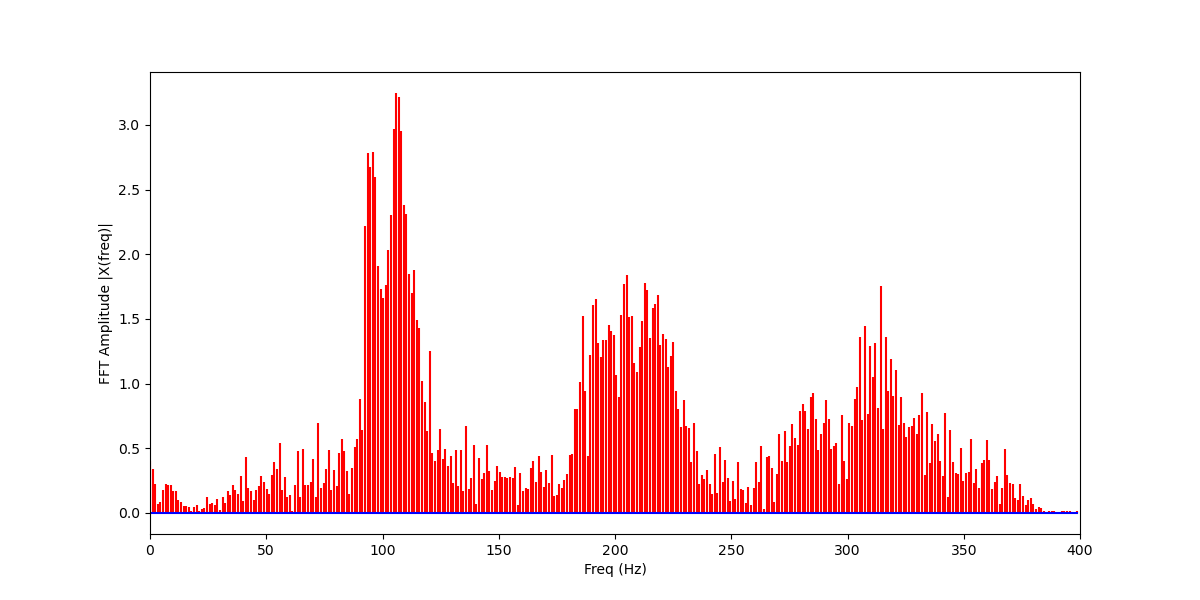
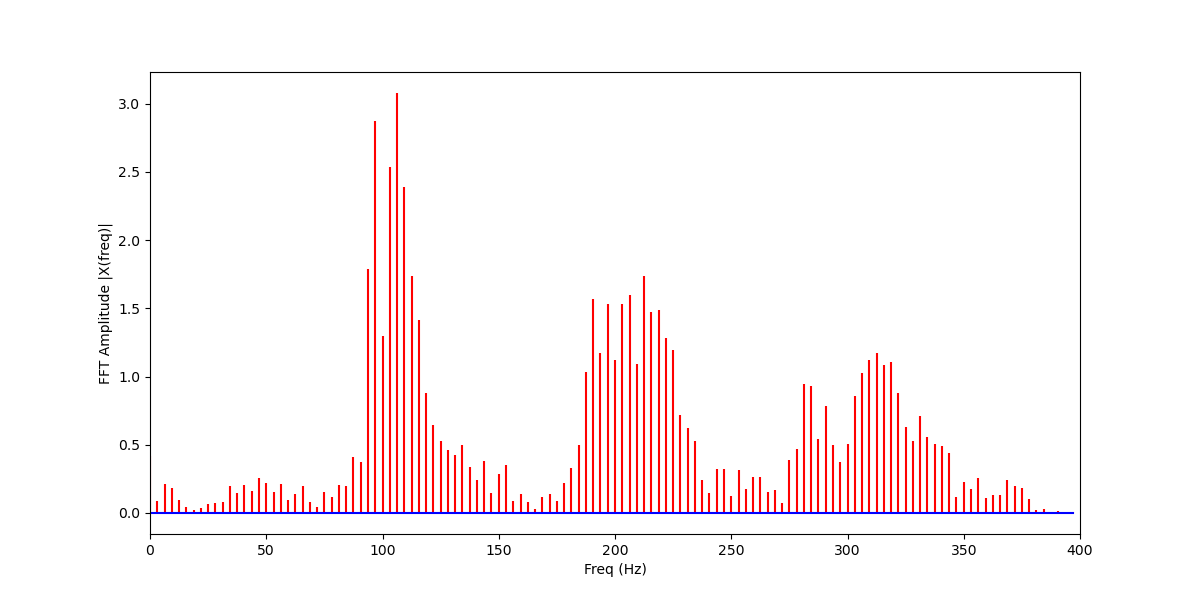
initial mfcc calculation with librosa

diff --git a/librosa_mfcc.py b/librosa_mfcc.py
@@ -1,0 +1,30 @@
+import numpy as np
+import librosa
+import os
+
+
+def calc_mfcc(name):
+    sr = 800
+    num_at_name = len(os.listdir('recordings/{n}/'.format(n=name)))
+    print(num_at_name)
+    for i in range(1, num_at_name + 1):
+        mfcc = []
+        x, sr = librosa.load('recordings/{n}/{n}{num}.m4a'.format(n=name, num=i), sr=sr)
+        arr = np.where(x >= 0.01)  # thresholding the signal to find values that contain speech
+
+        # librosa.display.waveshow(x[arr[0][0]:arr[0][-1]], sr = sr)
+        # plt.title("Waveform: {}".format(name))
+        # plt.savefig('graphs/waveform/{}_threshold.png'.format(name))
+
+        x = x[arr[0][0]:arr[0][-1]]  # updating array to only include thresholded signal
+
+        mfcc = librosa.feature.mfcc(y=x, sr = sr, n_mfcc = 12, n_fft = 256)
+        mfcc = np.reshape(mfcc, len(mfcc))
+        print(mfcc)
+
+if __name__ == "__main__":
+    calc_mfcc('sahil')
+    calc_mfcc("ria")
+    calc_mfcc("alex")
+    calc_mfcc("anshul")
+    # calc_mfcc("dan")

diff --git a/numpy_fft.py b/numpy_fft.py
@@ -7,6 +7,8 @@ import os
 
 max_freqs = dict()
 
+
+
 def mod_plots(name):
     sr = 800
     num_at_name = len(os.listdir('recordings/{n}/'.format(n=name)))
@@ -34,7 +36,7 @@ def mod_plots(name):
         # multiplying yields that the kth index of the FFT array represents the prominence of the frequency
             #(sr * k cycles / N seconds) Hz in the sinusoidal construction of the signal
 
-        probabilities = fft(x) # take the FFT
+        probabilities = fft(x, 256) # take the FFT
         length = len(probabilities)
         print("Initial sample size (N): {}".format(length))
         cycles_sample = np.arange(length) / length# construct the (cycles/sample) frequencies associated with each index of probabilities

diff --git a/scrub.py b/scrub.py
@@ -30,11 +30,11 @@ anshul = "anshul"
 alex = 'alex'
 dan = 'dan'
 
-ria_path = 'recordings/ria/ria.m4a'
-sahil_path = 'recordings/sahil/sahil.m4a'
-anshul_path = 'recordings/anshul/anshul.m4a'
-alex_path = 'recordings/alex/alex.m4a'
-dan_path = 'recordings/dan.m4a'
+ria_path = 'recordings/ria/ria1.m4a'
+sahil_path = 'recordings/sahil/sahil1.m4a'
+anshul_path = 'recordings/anshul/anshul1.m4a'
+alex_path = 'recordings/alex/alex1.m4a'
+dan_path = 'recordings/dan/dan1.m4a'
 
 if __name__ == "__main__":
     show_plots(ria_path, ria)

diff --git a/profile.py b/profile.py
@@ -1,0 +1,9 @@
+import pandas as pd
+import numpy as np
+
+class profile:
+    def __init__(self, name, fft ): #add more statistics as they are calculated
+
+    def form_df(self):
+
+    def serialize(self):
